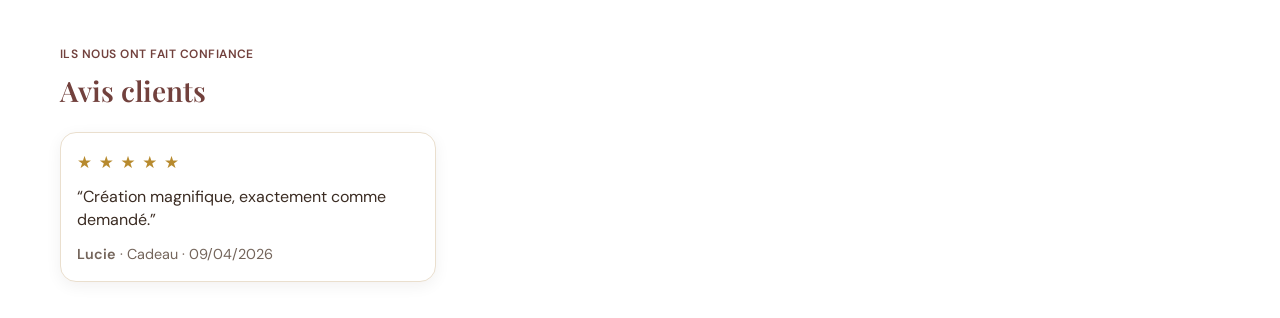
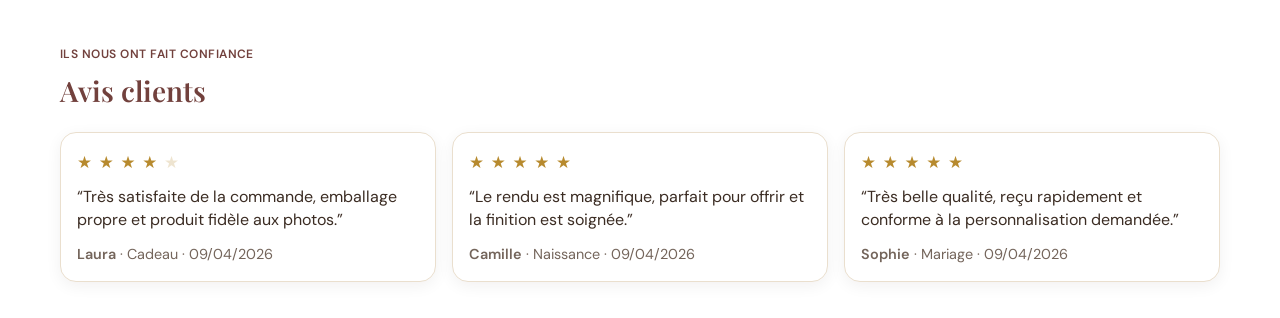
feat(reviews): diffuse approved reviews on product and category pages

diff --git a/playwright/scripts/screenshot-reviews-docs.js b/playwright/scripts/screenshot-reviews-docs.js
@@ -61,8 +61,10 @@ async function dismissCookies(page) {
   await loginViaUli(page);
   const targets = [
     { key: 'reviews-liste', url: '/admin/boutique/avis' },
-    { key: 'reviews-formulaire-client', url: '/avis/commande/990013/docreviewtoken123' },
+    { key: 'reviews-formulaire-client', url: '/avis/commande/26/docreviewtoken123' },
     { key: 'reviews-homepage-bloc', url: '/', sectionSelector: '.home-reviews' },
+    { key: 'reviews-produit-bloc', url: '/products/arbre-de-vie-personnalise', sectionSelector: '.home-reviews--product' },
+    { key: 'reviews-categorie-bloc', url: '/occasions/naissance-bebe', sectionSelector: '.home-reviews--category' },
   ];
 
   for (const target of targets) {

diff --git a/web/modules/custom/odesign_reviews/css/reviews.css b/web/modules/custom/odesign_reviews/css/reviews.css
@@ -2,6 +2,14 @@
   padding: 2.75rem 0 2.25rem;
 }
 
+.home-reviews--product {
+  padding: 1.75rem 0 0.75rem;
+}
+
+.home-reviews--category {
+  padding: 2rem 0 1rem;
+}
+
 .home-reviews__grid {
   display: grid;
   gap: 1rem;

diff --git a/web/modules/custom/odesign_reviews/src/Service/ReviewManager.php b/web/modules/custom/odesign_reviews/src/Service/ReviewManager.php
@@ -8,6 +8,10 @@ use Drupal\Core\Language\LanguageManagerInterface;
 use Drupal\Core\Logger\LoggerChannelFactoryInterface;
 use Drupal\Core\Mail\MailManagerInterface;
 use Drupal\Core\Cache\CacheTagsInvalidatorInterface;
+use Drupal\Core\Entity\EntityTypeManagerInterface;
+use Drupal\commerce_order\Entity\OrderInterface;
+use Drupal\commerce_order\Entity\OrderItemInterface;
+use Drupal\commerce_product\Entity\ProductVariationInterface;
 use Drupal\Core\Url;
 
 /**
@@ -22,6 +26,7 @@ class ReviewManager {
     private readonly LoggerChannelFactoryInterface $loggerFactory,
     private readonly DateFormatterInterface $dateFormatter,
     private readonly CacheTagsInvalidatorInterface $cacheTagsInvalidator,
+    private readonly EntityTypeManagerInterface $entityTypeManager,
   ) {}
 
   /**
@@ -116,7 +121,7 @@ class ReviewManager {
    */
   public function saveReview(array $request, array $review_values): void {
     $timestamp = \Drupal::time()->getRequestTime();
-    $this->database->insert('odesign_reviews')
+    $review_id = (int) $this->database->insert('odesign_reviews')
       ->fields([
         'order_id' => (int) $request['order_id'],
         'order_number' => (string) $request['order_number'],
@@ -130,6 +135,8 @@ class ReviewManager {
         'updated' => $timestamp,
       ])
       ->execute();
+
+    $this->attachPurchasedProducts($review_id, (int) $request['order_id']);
 
     $this->database->update('odesign_review_requests')
       ->fields(['used' => 1])
@@ -179,6 +186,131 @@ class ReviewManager {
       ->execute()
       ->fetchAllAssoc('id');
 
+    return $this->formatRows($rows);
+  }
+
+  /**
+   * Returns approved reviews tied to a given product.
+   */
+  public function getApprovedForProduct(int $product_id, int $limit = 3): array {
+    if ($product_id <= 0) {
+      return [];
+    }
+
+    $query = $this->database->select('odesign_reviews', 'r');
+    $query->fields('r');
+    $query->join('odesign_review_products', 'rp', 'rp.review_id = r.id');
+    $query->condition('r.status', 'approved');
+    $query->condition('rp.product_id', $product_id);
+    $query->orderBy('r.created', 'DESC');
+    $query->range(0, $limit);
+    $rows = $query->execute()->fetchAllAssoc('id');
+
+    return $this->formatRows($rows);
+  }
+
+  /**
+   * Returns approved reviews tied to a life_occasion category.
+   */
+  public function getApprovedForLifeOccasion(int $term_id, int $limit = 3): array {
+    if ($term_id <= 0) {
+      return [];
+    }
+
+    $query = $this->database->select('odesign_reviews', 'r');
+    $query->fields('r');
+    $query->join('odesign_review_products', 'rp', 'rp.review_id = r.id');
+    $query->join('commerce_product__field_life_occasion', 'pl', 'pl.entity_id = rp.product_id');
+    $query->condition('r.status', 'approved');
+    $query->condition('pl.field_life_occasion_target_id', $term_id);
+    $query->distinct();
+    $query->orderBy('r.created', 'DESC');
+    $query->range(0, $limit);
+    $rows = $query->execute()->fetchAllAssoc('id');
+
+    return $this->formatRows($rows);
+  }
+
+  /**
+   * Backfills review/product links for rows created before v2 mapping.
+   */
+  public function backfillReviewProducts(): int {
+    $query = $this->database->select('odesign_reviews', 'r');
+    $query->fields('r', ['id', 'order_id']);
+    $query->leftJoin('odesign_review_products', 'rp', 'rp.review_id = r.id');
+    $query->isNull('rp.review_id');
+    $review_ids = $query->execute()->fetchAllKeyed();
+
+    $count = 0;
+    foreach ($review_ids as $review_id => $order_id) {
+      $this->attachPurchasedProducts((int) $review_id, (int) $order_id);
+      $count++;
+    }
+    return $count;
+  }
+
+  /**
+   * Adds product links for one review from the source order items.
+   */
+  private function attachPurchasedProducts(int $review_id, int $order_id): void {
+    if ($review_id <= 0 || $order_id <= 0) {
+      return;
+    }
+
+    $order = $this->entityTypeManager->getStorage('commerce_order')->load($order_id);
+    if (!$order instanceof OrderInterface) {
+      return;
+    }
+
+    $links = [];
+    foreach ($order->getItems() as $item) {
+      if (!$item instanceof OrderItemInterface) {
+        continue;
+      }
+      $purchased_entity = $item->getPurchasedEntity();
+      if (!$purchased_entity instanceof ProductVariationInterface || !$purchased_entity->getProduct()) {
+        continue;
+      }
+      $product = $purchased_entity->getProduct();
+      $product_id = (int) $product->id();
+      if ($product_id <= 0) {
+        continue;
+      }
+      $links[$product_id] = [
+        'review_id' => $review_id,
+        'order_id' => $order_id,
+        'product_id' => $product_id,
+        'product_title' => mb_substr($product->label(), 0, 255),
+        'created' => \Drupal::time()->getRequestTime(),
+      ];
+    }
+
+    if (!$links) {
+      return;
+    }
+
+    foreach ($links as $link) {
+      $exists = (bool) $this->database->select('odesign_review_products', 'rp')
+        ->fields('rp', ['id'])
+        ->condition('review_id', (int) $link['review_id'])
+        ->condition('product_id', (int) $link['product_id'])
+        ->execute()
+        ->fetchField();
+
+      if ($exists) {
+        continue;
+      }
+
+      $this->database->insert('odesign_review_products')
+        ->fields($link)
+        ->execute();
+    }
+  }
+
+  /**
+   * Adds formatted date label to rows.
+   */
+  private function formatRows(array $rows): array {
     foreach ($rows as &$row) {
       $row->created_label = $this->dateFormatter->format((int) $row->created, 'custom', 'd/m/Y');
     }

diff --git a/web/modules/custom/odesign_reviews/src/Plugin/Block/CustomerReviewsBlock.php b/web/modules/custom/odesign_reviews/src/Plugin/Block/CustomerReviewsBlock.php
@@ -51,6 +51,9 @@ class CustomerReviewsBlock extends BlockBase implements ContainerFactoryPluginIn
     return [
       '#theme' => 'odesign_reviews_block',
       '#reviews' => $reviews,
+      '#eyebrow' => $this->t('Ils nous ont fait confiance'),
+      '#title' => $this->t('Avis clients'),
+      '#variant' => 'home',
       '#attached' => [
         'library' => ['odesign_reviews/frontend'],
       ],

diff --git a/docs/utilisateur/16-avis-clients.md b/docs/utilisateur/16-avis-clients.md
@@ -51,9 +51,13 @@ Le site collecte les avis automatiquement après la livraison d’une commande:
 ## Ce que cela change sur le site
 
 - Les avis **approuvés** peuvent apparaître sur la page d’accueil dans la section **Avis clients**
+- Les avis **approuvés** remontent aussi sur certaines fiches produit concernées
+- Les avis **approuvés** remontent aussi sur les pages univers (catégories `Occasions de vie`) concernées
 - Les avis **rejetés** restent en backoffice pour historique
 
 ![Section Avis clients visible sur la page d'accueil](screenshots/reviews-homepage-bloc.png)
+![Bloc avis visible sur une fiche produit](screenshots/reviews-produit-bloc.png)
+![Bloc avis visible sur une page univers](screenshots/reviews-categorie-bloc.png)
 
 ## Bonnes pratiques
 

diff --git a/docs/utilisateur/screenshots/index.md b/docs/utilisateur/screenshots/index.md
@@ -24,3 +24,8 @@
 | `recherche-resultats.png` | Recherche — résultats |
 | `recherche-zero-resultat.png` | Recherche — zéro résultat |
 | `analytics-cockpit-kpi.png` | Analytics — cockpit KPI |
+| `reviews-liste.png` | Avis clients — liste de modération |
+| `reviews-formulaire-client.png` | Avis clients — formulaire public (lien unique) |
+| `reviews-homepage-bloc.png` | Avis clients — bloc homepage |
+| `reviews-produit-bloc.png` | Avis clients — bloc fiche produit |
+| `reviews-categorie-bloc.png` | Avis clients — bloc page univers |
